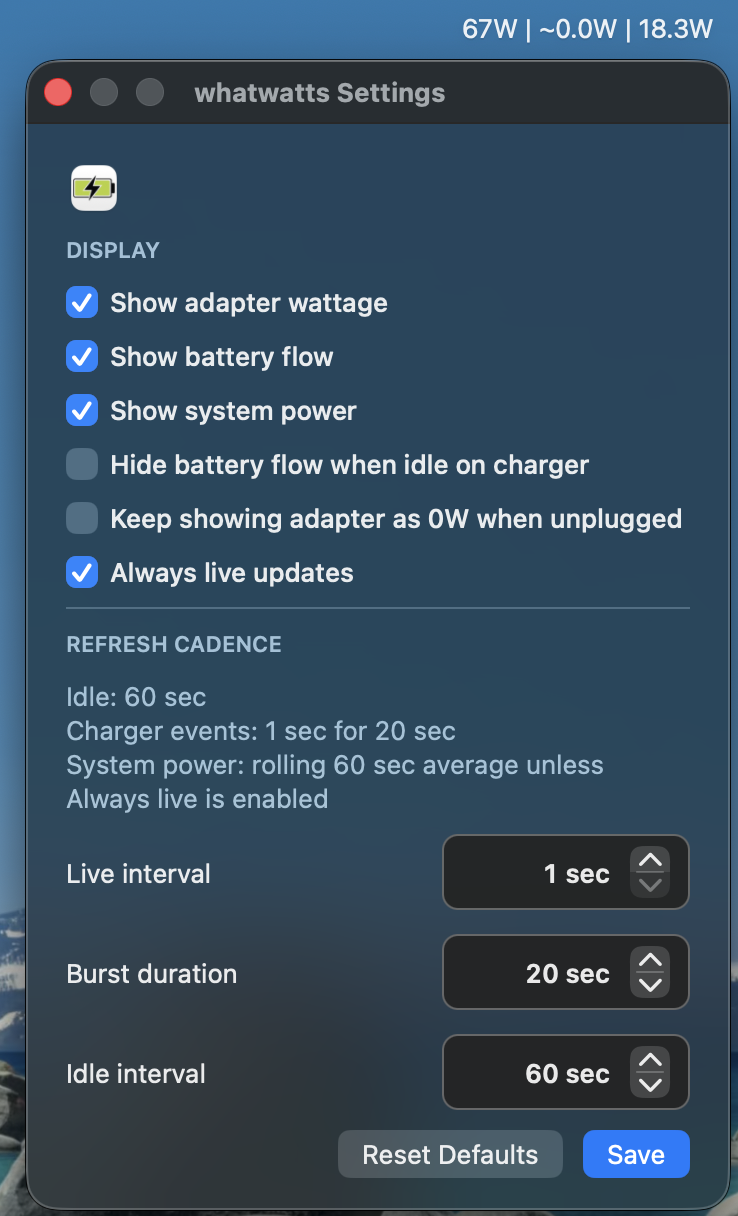
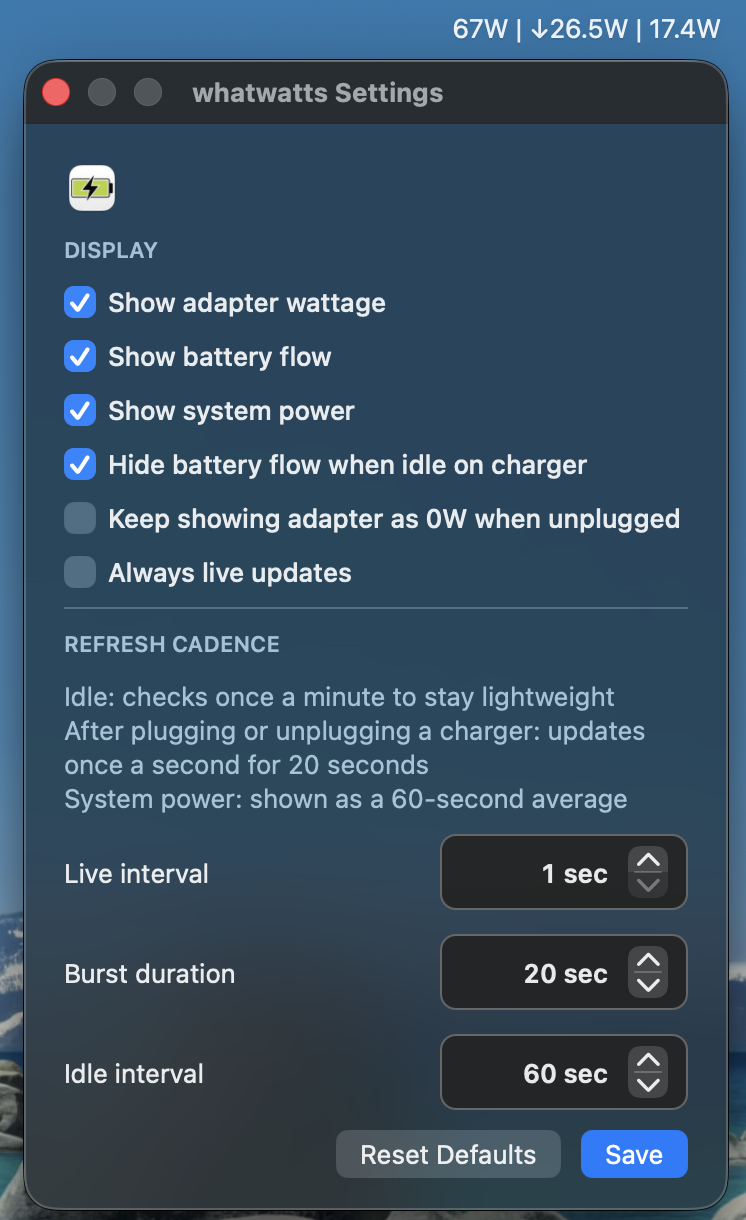
Refresh preferences copy and screenshot

diff --git a/WhatWatt/AppDelegate.swift b/WhatWatt/AppDelegate.swift
@@ -723,9 +723,9 @@ private final class PreferencesWindowController: NSWindowController {
         let refreshLabel = sectionLabel("Refresh cadence")
 
         let explanationLabel = NSTextField(wrappingLabelWithString: """
-        Idle: 60 sec
-        Charger events: 1 sec for 20 sec
-        System power: rolling 60 sec average unless Always live is enabled
+        Idle: checks once a minute to stay lightweight
+        After plugging or unplugging a charger: updates once a second for 20 seconds
+        System power: shown as a 60-second average unless Always live is enabled
         """)
         explanationLabel.textColor = .secondaryLabelColor
         explanationLabel.lineBreakMode = .byWordWrapping

diff --git a/README.md b/README.md
@@ -40,7 +40,7 @@ That makes it easier to compare chargers, cables, docks, and multi-port power br
 
 The optional system-power estimate came from looking at how [SAP Power Monitor](https://github.com/SAP/power-monitoring-tool-for-macos) approaches the same problem. `whatwatts` now reads the same class of private SMC value to expose a lightweight "how hard is the machine pulling right now?" estimate alongside charger and battery data.
 
-In low-power mode, the SMC value is shown as a rolling 60-second average. If you want faster 1-second updates, enable `Always Live Updates`.
+In low-power mode, the app checks infrequently to stay lightweight. After plugging or unplugging a charger, it updates once a second for 20 seconds. The SMC system-power value is shown as a 60-second average unless `Always Live Updates` is enabled.
 
 ## SMC system power note
 
